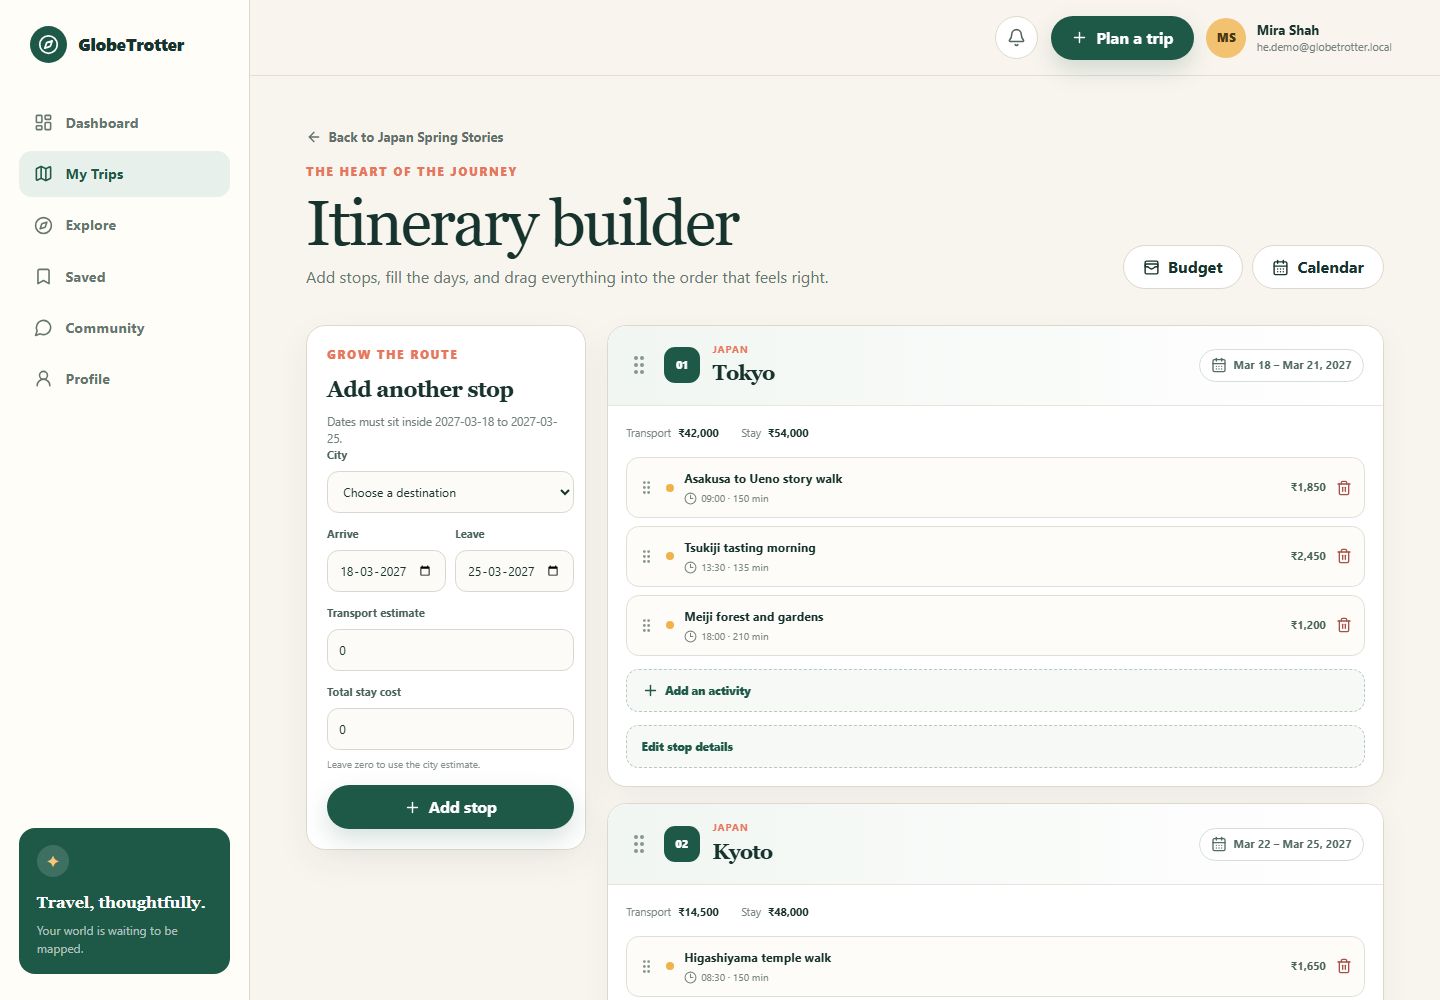
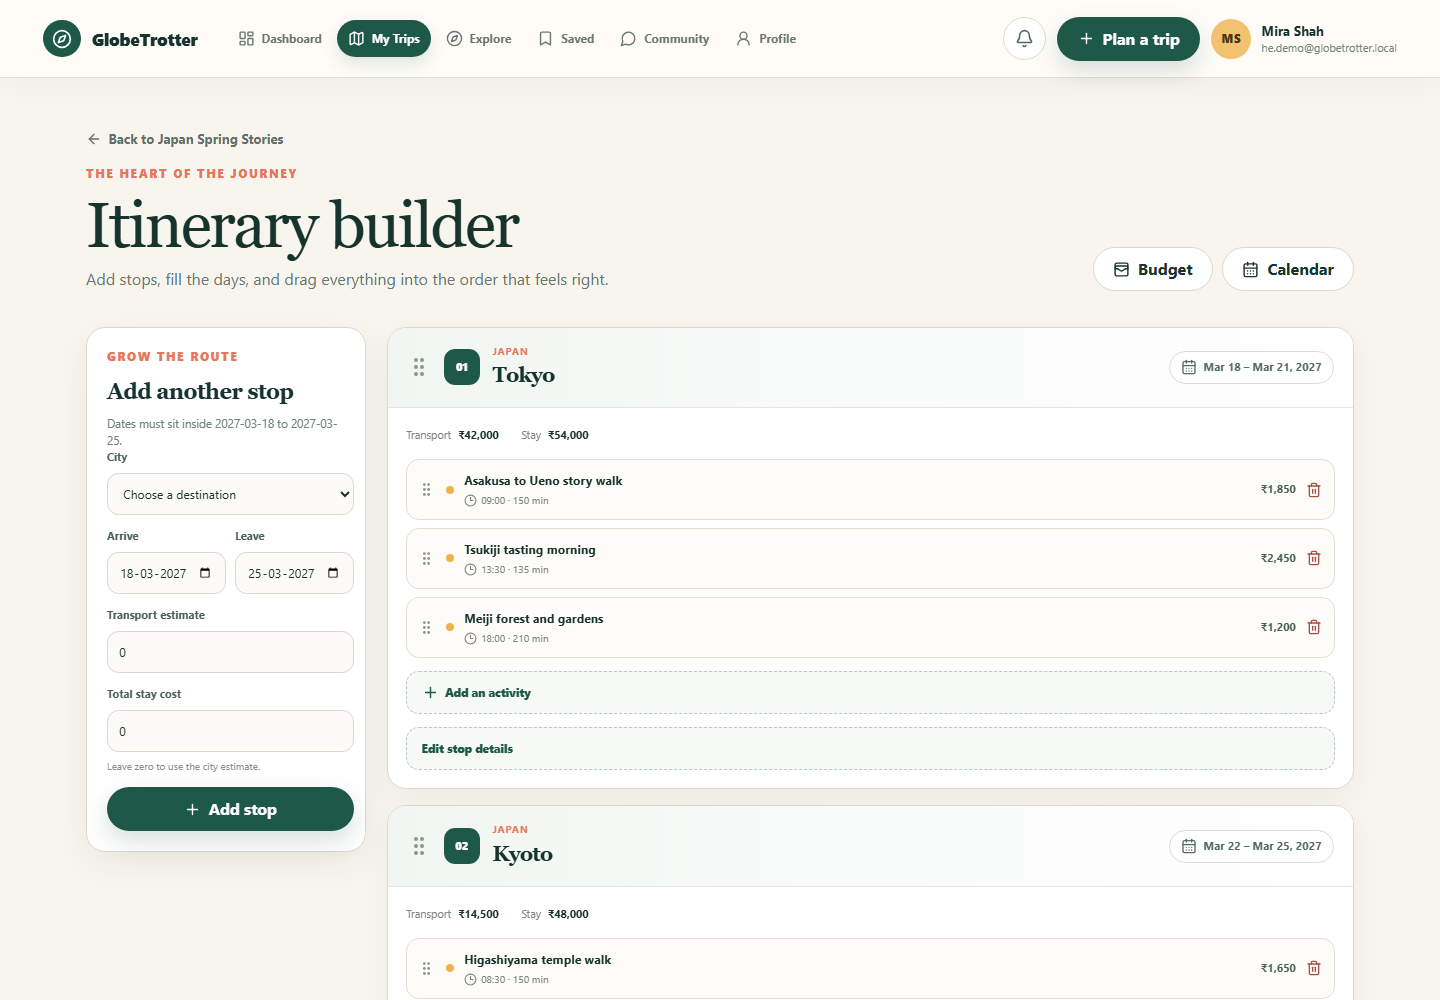
refactor(nav) : changed side nav to to navbar

diff --git a/test-reports/e2e/html/index.html b/test-reports/e2e/html/index.html
@@ -46,4 +46,4 @@ Error generating stack: `+e.message+`
     <div id='root'></div>
   </body>
 </html>
[2 lines of base64/hex data omitted]

diff --git a/app/globals.css b/app/globals.css
@@ -102,21 +102,15 @@ h1, h2 { font-family: var(--font-display), serif; letter-spacing: -0.035em; }
 @keyframes spin { to { transform: rotate(360deg); } }
 
 /* App shell */
-.app-frame { display: grid; min-height: 100vh; grid-template-columns: 250px 1fr; background: #f8f5ee; }
-.sidebar { position: sticky; top: 0; display: flex; height: 100vh; flex-direction: column; border-right: 1px solid var(--line); padding: 1.6rem 1.2rem; background: var(--cream); }
-.sidebar .brand { margin: 0 .65rem 2.3rem; }
-.sidebar-nav { display: grid; gap: .35rem; }
-.nav-link { display: flex; align-items: center; gap: .8rem; border-radius: .8rem; padding: .75rem .9rem; color: #65756f; font-size: .9rem; font-weight: 650; }
-.nav-link:hover { background: #f4efe5; color: var(--ink); }
-.nav-link-active { background: #e8f0eb; color: var(--forest); }
-.sidebar-note { margin-top: auto; border-radius: 1rem; padding: 1.1rem; background: var(--forest); color: white; }
-.sidebar-note-icon { display: grid; width: 2rem; height: 2rem; margin-bottom: .8rem; place-items: center; border-radius: 50%; background: rgba(255,255,255,.14); color: #f8c77a; }
-.sidebar-note strong { font-family: var(--font-display); }
-.sidebar-note p { margin: .35rem 0 0; color: rgba(255,255,255,.65); font-size: .75rem; line-height: 1.5; }
-.app-main { min-width: 0; }
-.app-header { position: sticky; z-index: 20; top: 0; display: flex; height: 76px; align-items: center; gap: .8rem; border-bottom: 1px solid rgba(222,216,203,.8); padding: 0 clamp(1.2rem,4vw,3rem); background: rgba(248,245,238,.88); backdrop-filter: blur(18px); }
-.app-header-spacer { flex: 1; }
-.mobile-brand { display: none; }
+.app-frame { min-height: 100vh; background: #f8f5ee; }
+.app-header { position: sticky; z-index: 20; top: 0; display: flex; height: 78px; align-items: center; gap: clamp(.8rem,2vw,1.8rem); border-bottom: 1px solid rgba(222,216,203,.84); padding: 0 clamp(1rem,3vw,3rem); background: rgba(255,253,248,.91); box-shadow: 0 8px 28px rgba(22,50,42,.035); backdrop-filter: blur(18px); }
+.header-brand { flex: 0 0 auto; white-space: nowrap; }
+.top-nav { display: flex; min-width: 0; align-items: center; gap: .2rem; }
+.nav-link { display: flex; align-items: center; gap: .42rem; border-radius: 999px; padding: .58rem .72rem; color: #687871; font-size: .74rem; font-weight: 750; white-space: nowrap; transition: color .18s, background .18s, transform .18s; }
+.nav-link:hover { background: #f0ece3; color: var(--ink); transform: translateY(-1px); }
+.nav-link-active { background: var(--forest); color: white; box-shadow: 0 7px 18px rgba(30,89,72,.15); }
+.nav-link-active:hover { background: #174c3e; color: white; }
+.app-header-actions { display: flex; margin-left: auto; align-items: center; gap: .7rem; }
 .icon-button, .icon-link { display: grid; width: 2.7rem; height: 2.7rem; place-items: center; border: 1px solid var(--line); border-radius: 50%; background: white; color: #536760; }
 .user-menu { position: relative; }
 .user-menu summary { display: flex; align-items: center; gap: .65rem; cursor: pointer; list-style: none; }
@@ -129,8 +123,7 @@ h1, h2 { font-family: var(--font-display), serif; letter-spacing: -0.035em; }
 .user-menu-popover { position: absolute; top: calc(100% + .8rem); right: 0; width: 190px; overflow: hidden; border: 1px solid var(--line); border-radius: .8rem; background: white; box-shadow: 0 18px 45px rgba(23,51,45,.13); }
 .user-menu-popover a, .user-menu-popover button { display: block; width: 100%; border: 0; padding: .8rem 1rem; background: transparent; color: var(--ink); cursor: pointer; text-align: left; font-size: .82rem; }
 .user-menu-popover a:hover, .user-menu-popover button:hover { background: #f7f2e9; }
-.mobile-nav { display: none; }
-.content { width: min(1280px, 100%); margin: auto; padding: 3.2rem clamp(1.2rem,4vw,3.5rem) 5rem; }
+.content { width: min(1380px, 100%); margin: auto; padding: 3.2rem clamp(1.2rem,4vw,3.5rem) 5rem; }
 .page-header { display: flex; align-items: flex-end; justify-content: space-between; gap: 2rem; margin-bottom: 2.2rem; }
 .page-header h1 { margin-bottom: .55rem; font-size: clamp(2.4rem,5vw,4rem); font-weight: 500; line-height: 1; }
 .page-header > div > p:last-child { max-width: 650px; margin: 0; color: #677771; line-height: 1.6; }
@@ -235,7 +228,7 @@ h1, h2 { font-family: var(--font-display), serif; letter-spacing: -0.035em; }
   .postcard-top { right: -2%; }
   .postcard-bottom { left: 0; }
   .trip-grid { grid-template-columns: repeat(2,minmax(0,1fr)); }
-  .app-frame { grid-template-columns: 220px 1fr; }
+  .top-nav .nav-link svg { display: none; }
 }
 @media (max-width: 800px) {
   .landing-nav { padding: 1.2rem; }
@@ -246,14 +239,14 @@ h1, h2 { font-family: var(--font-display), serif; letter-spacing: -0.035em; }
   .auth-page { grid-template-columns: 1fr; }
   .auth-story { display: none; }
   .auth-panel { min-height: 100vh; padding: 2rem 1.2rem; }
-  .sidebar { display: none; }
-  .app-frame { display: block; }
-  .app-header { height: 66px; padding-inline: 1rem; }
-  .mobile-brand { display: flex; align-items: center; gap: .45rem; color: var(--forest); }
+  .app-header { height: auto; min-height: 66px; flex-wrap: wrap; gap: .6rem; padding: .65rem 1rem 0; }
+  .header-brand { min-height: 44px; }
+  .top-nav { order: 3; width: calc(100% + 2rem); overflow-x: auto; margin: 0 -1rem; border-top: 1px solid rgba(222,216,203,.72); padding: .48rem 1rem .62rem; scrollbar-width: none; }
+  .top-nav::-webkit-scrollbar { display: none; }
+  .top-nav .nav-link { flex: 0 0 auto; padding: .52rem .72rem; }
+  .top-nav .nav-link svg { display: block; }
   .header-new-trip, .user-menu-copy { display: none; }
-  .mobile-nav { position: fixed; z-index: 25; right: 0; bottom: 0; left: 0; display: grid; grid-template-columns: repeat(6,1fr); border-top: 1px solid var(--line); padding: .45rem max(.4rem, env(safe-area-inset-right)) calc(.4rem + env(safe-area-inset-bottom)) max(.4rem, env(safe-area-inset-left)); background: rgba(255,253,248,.94); backdrop-filter: blur(18px); }
-  .mobile-nav .nav-link { display: grid; justify-items: center; gap: .2rem; padding: .4rem .15rem; font-size: .59rem; }
-  .content { padding: 2rem 1rem 6.5rem; }
+  .content { padding: 2rem 1rem 5rem; }
   .trip-facts { grid-template-columns: 1fr; }
 }
 @media (max-width: 580px) {

diff --git a/components/app-shell/app-shell.tsx b/components/app-shell/app-shell.tsx
@@ -7,25 +7,19 @@ import { initials } from "@/lib/utils";
 export function AppShell({ user, children }: { user: { name?: string | null; email?: string | null; image?: string | null; role?: string }; children: React.ReactNode }) {
   return (
     <div className="app-frame">
-      <aside className="sidebar">
-        <Link className="brand" href="/trips"><span className="brand-mark"><Compass size={21} /></span>GlobeTrotter</Link>
+      <header className="app-header">
+        <Link className="brand header-brand" href="/dashboard"><span className="brand-mark"><Compass size={20} /></span>GlobeTrotter</Link>
         <NavLinks />
-        <div className="sidebar-note"><span className="sidebar-note-icon">✦</span><strong>Travel, thoughtfully.</strong><p>Your world is waiting to be mapped.</p></div>
-      </aside>
-      <div className="app-main">
-        <header className="app-header">
-          <Link className="mobile-brand" href="/trips"><Compass size={22} /><strong>GlobeTrotter</strong></Link>
-          <div className="app-header-spacer" />
+        <div className="app-header-actions">
           <Link className="icon-button" href="/trips" aria-label="Notifications"><Bell size={19} /></Link>
           <Link className="button button-primary header-new-trip" href="/trips/new"><Plus size={17} /> Plan a trip</Link>
           <details className="user-menu">
             <summary aria-label="Open user menu"><span className="avatar">{initials(user.name)}</span><span className="user-menu-copy"><strong>{user.name}</strong><small>{user.email}</small></span></summary>
             <div className="user-menu-popover"><Link href="/profile">Profile & settings</Link>{user.role === "ADMIN" ? <Link href="/admin">Admin analytics</Link> : null}<form action={logoutAction}><button type="submit">Log out</button></form></div>
           </details>
-        </header>
-        <main className="content">{children}</main>
-        <NavLinks mobile />
-      </div>
+        </div>
+      </header>
+      <main className="content">{children}</main>
     </div>
   );
 }

diff --git a/components/app-shell/nav-links.tsx b/components/app-shell/nav-links.tsx
@@ -14,13 +14,13 @@ const links = [
   { href: "/profile", label: "Profile", icon: UserRound },
 ];
 
-export function NavLinks({ mobile = false }: { mobile?: boolean }) {
+export function NavLinks() {
   const pathname = usePathname();
   return (
-    <nav className={mobile ? "mobile-nav" : "sidebar-nav"} aria-label={mobile ? "Mobile navigation" : "Application navigation"}>
+    <nav className="top-nav" aria-label="Application navigation">
       {links.map(({ href, label, icon: Icon }) => {
         const active = pathname === href || (href === "/trips" && pathname.startsWith("/trips"));
-        return <Link key={href} href={href} className={cn("nav-link", active && "nav-link-active")} aria-current={active ? "page" : undefined}><Icon size={mobile ? 20 : 19} /><span>{label}</span></Link>;
+        return <Link key={href} href={href} className={cn("nav-link", active && "nav-link-active")} aria-current={active ? "page" : undefined}><Icon size={17} /><span>{label}</span></Link>;
       })}
     </nav>
   );
